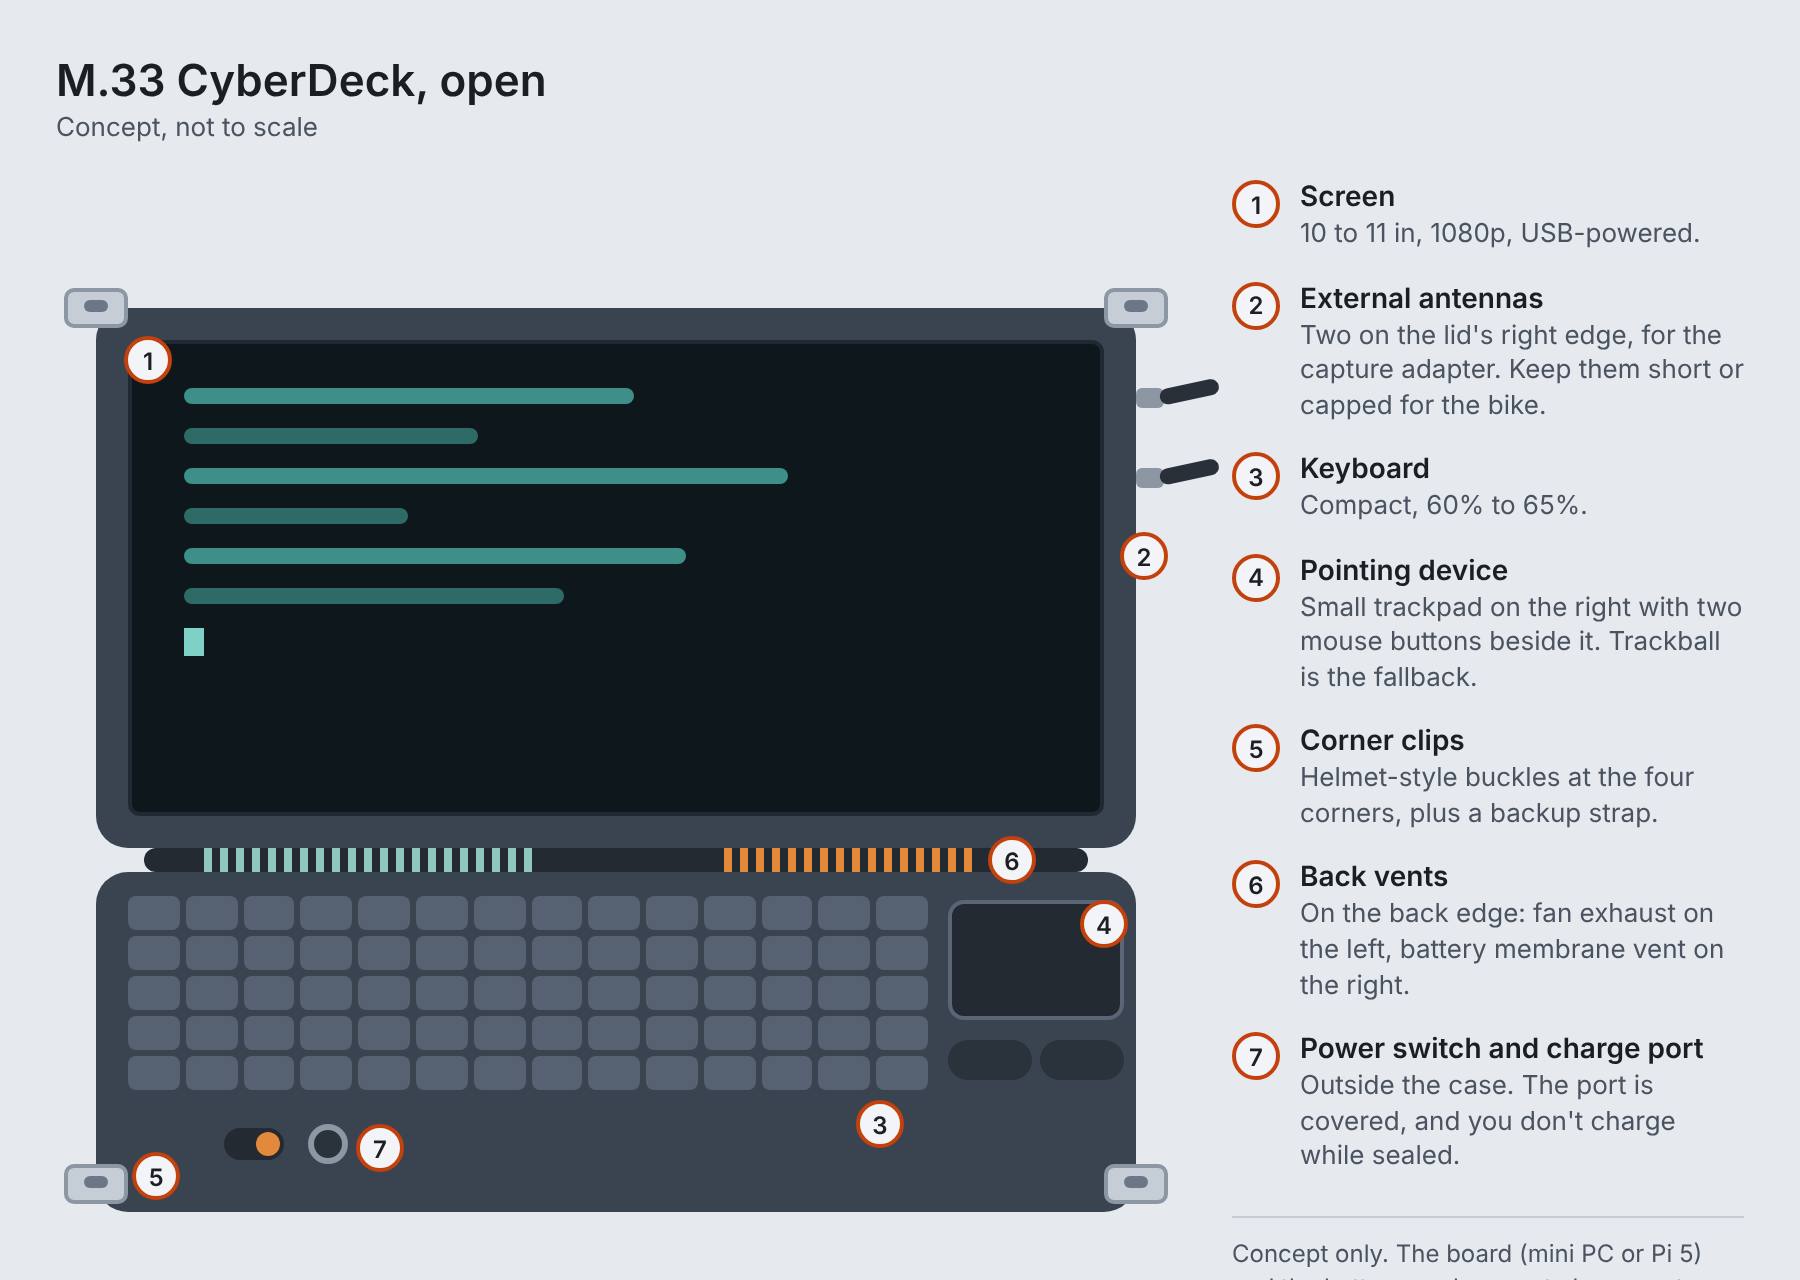
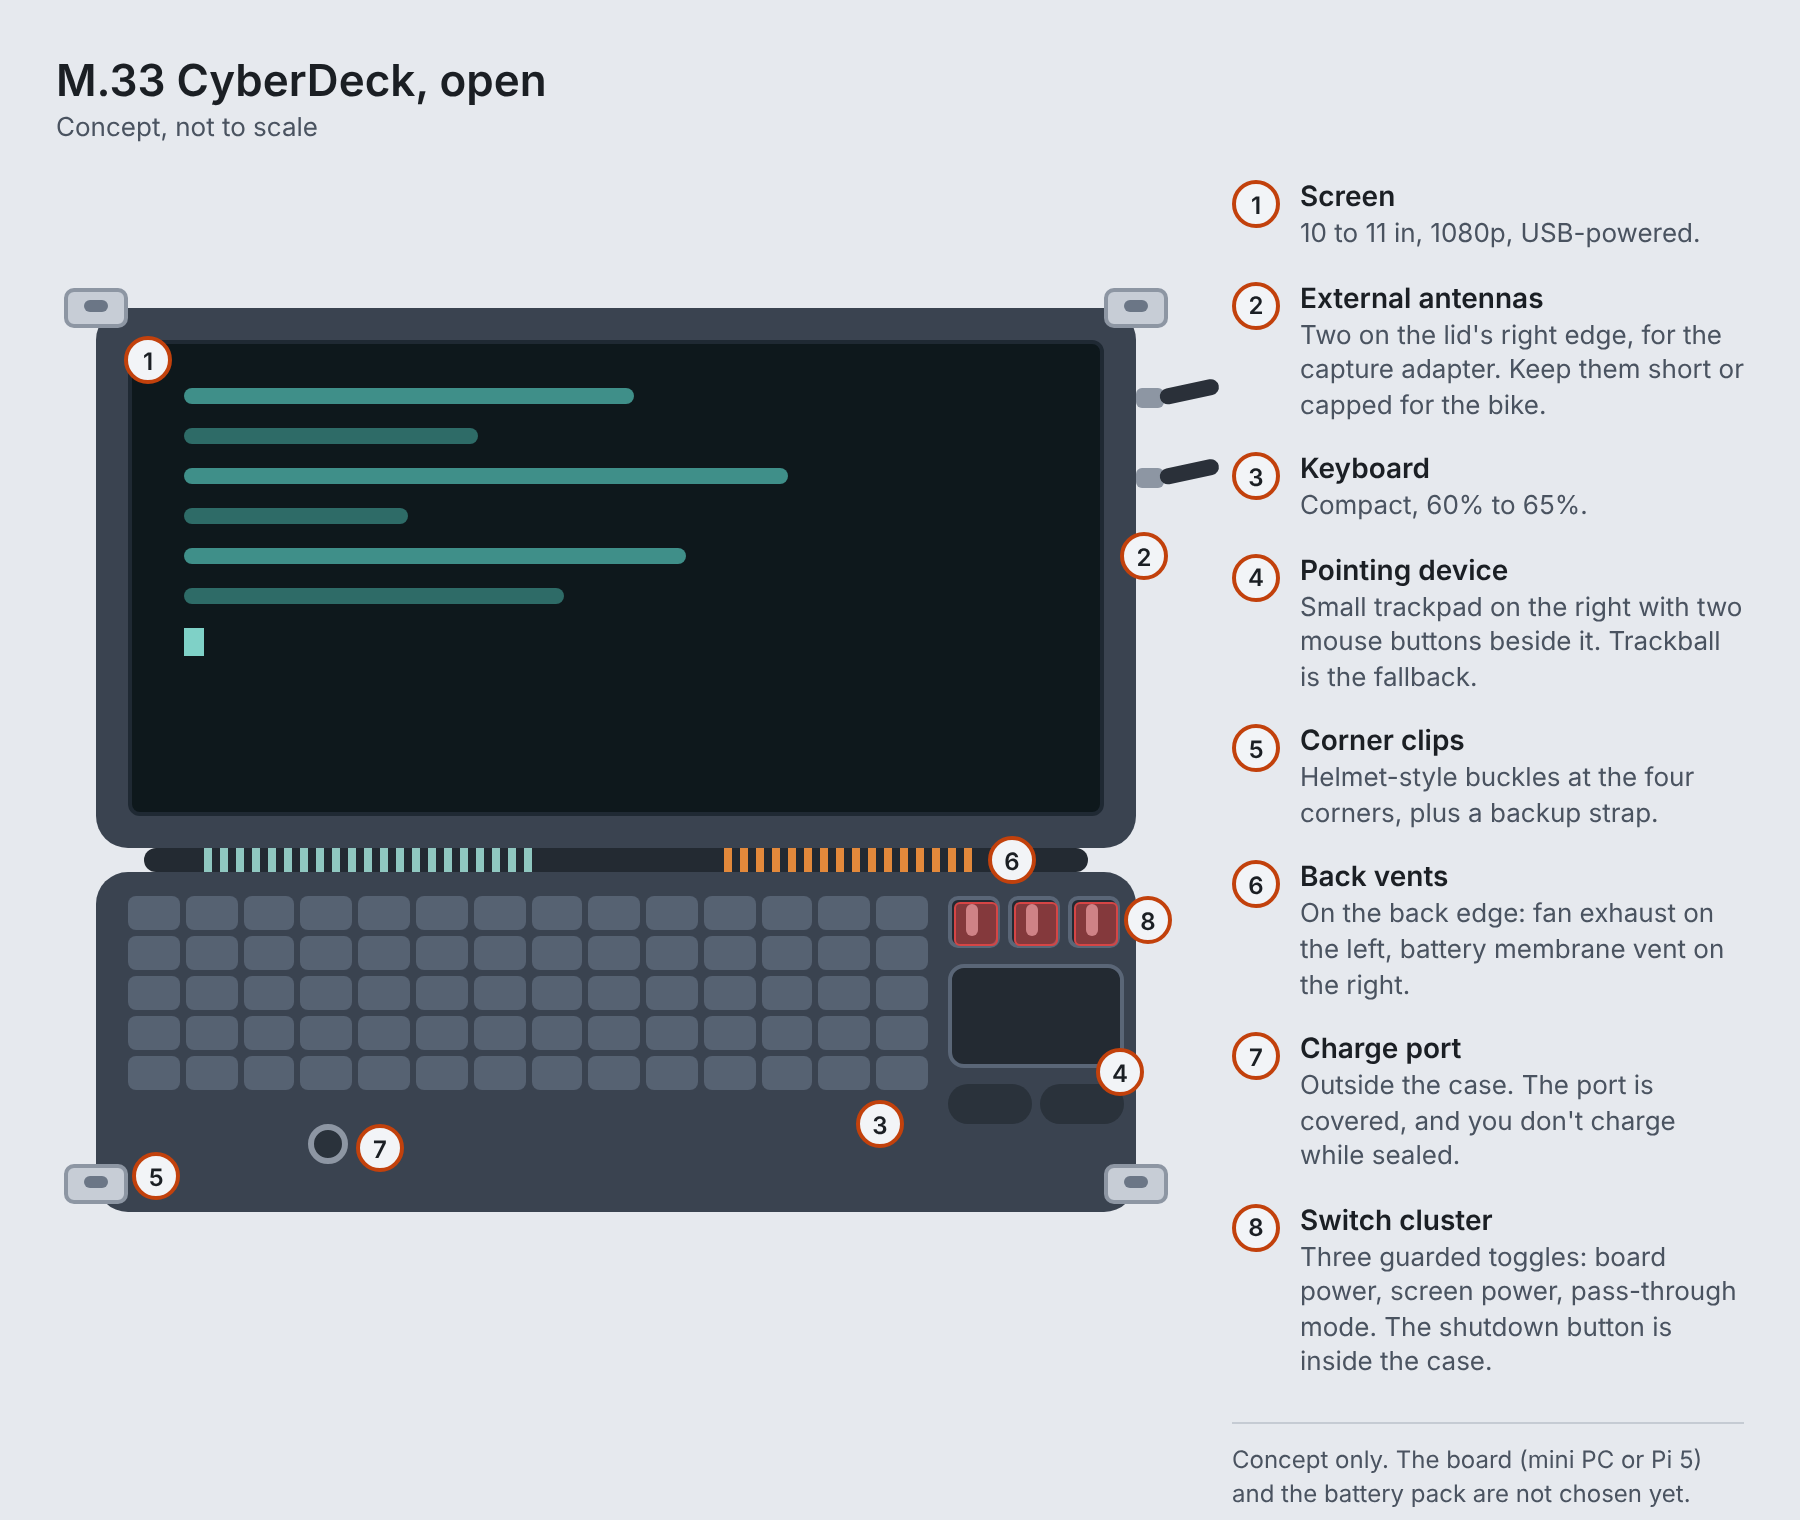
Draw switch cluster in open view; shutdown button is inside the case
Claude-Session: https://claude.ai/code/session_01WfqXADZtRr3PMXX3S9pY6E

diff --git a/MINI_PC_PLAN.md b/MINI_PC_PLAN.md
@@ -133,7 +133,7 @@ Idea under consideration: three guarded toggle switches (race-car style, with a 
 2. **Screen power:** cuts the screen's power line. A 10 in panel draws roughly 3 to 4 W, so it saves about 15 to 25% on headless jobs. These figures are estimates.
 3. **Pass-through mode:** the deck acts as the screen, keyboard and trackpad for another computer (a Pi or a laptop) while the internal board is off. Easiest build: a screen with a second input (HDMI plus USB-C) that switches automatically, a small USB switch (2 in, 1 out) for the keyboard and trackpad, and an HDMI-in and a USB host port on the case panel. Most USB switches use a momentary button, so a latching toggle needs a small relay or a switch with a hardware selector.
 
-Shutdown button: a separate momentary button for a clean shutdown (and to turn the board back on), either hidden and recessed or a big red arcade-style button. It wires to the board's power-button header, so a press sends the same signal as the board's own button. Set the OS to shut down cleanly on a power-button press. A long press (about 4 to 5 seconds) usually forces a hard power-off. Keep it recessed, under a cover or guarded, so it can't be pressed in a bag, and keep the main toggle off in transit so a stray press does nothing. Header pins on the board still need to be confirmed from teardown photos or the manual. The pins for it are the front-panel power-button pins on the motherboard, so confirm their location for the chosen model.
+Shutdown button: a separate momentary button for a clean shutdown (and to turn the board back on), either hidden and recessed or a big red arcade-style button. It wires to the board's power-button header, so a press sends the same signal as the board's own button. Set the OS to shut down cleanly on a power-button press. A long press (about 4 to 5 seconds) usually forces a hard power-off. It sits inside the case, so a bag can't press it, and it is reached with the case open. Header pins on the board still need to be confirmed from teardown photos or the manual. The pins for it are the front-panel power-button pins on the motherboard, so confirm their location for the chosen model.
 
 Power wiring: the screen and the USB switch must stay powered with the PC switch off. Feed them from the main battery before the PC switch, through an inline fuse and the screen switch. If the pack has a spare USB-C port, plug them into that. If the pack has only a 19 V DC output, add a small step-down converter to 5 V or a PD trigger module. Battery requirement: two outputs usable at once (high-power for the board, always-on USB-C for the screen). Check that the pack does not split its wattage between ports or turn off a port under a small load.
 

diff --git a/BUILD_PLAN.md b/BUILD_PLAN.md
@@ -94,7 +94,7 @@ Idea under consideration: three guarded toggle switches (race-car style, with a 
 2. **Screen power:** cuts the screen's power line. A 10 in panel draws roughly 3 to 4 W, which is large next to a Pi's 2 to 12 W, so it matters most here. These figures are estimates.
 3. **Pass-through mode:** the deck acts as the screen, keyboard and trackpad for another computer (a laptop or a second Pi) while the Pi is off. Easiest build: a screen with a second input (HDMI plus USB-C) that switches automatically, a small USB switch (2 in, 1 out) for the keyboard and trackpad, and an HDMI-in and a USB host port on the case panel. Most USB switches use a momentary button, so a latching toggle needs a small relay or a switch with a hardware selector.
 
-Shutdown button: a separate momentary button for a clean shutdown (and to turn the board back on), either hidden and recessed or a big red arcade-style button. It wires to the board's power-button header, so a press sends the same signal as the board's own button. Set the OS to shut down cleanly on a power-button press. A long press (about 4 to 5 seconds) usually forces a hard power-off. Keep it recessed, under a cover or guarded, so it can't be pressed in a bag, and keep the main toggle off in transit so a stray press does nothing. Header pins on the board still need to be confirmed from teardown photos or the manual. A Pi 5 has a power-button connector on the board. A Pi 4 has none, so it shuts down from the OS or over SSH.
+Shutdown button: a separate momentary button for a clean shutdown (and to turn the board back on), either hidden and recessed or a big red arcade-style button. It wires to the board's power-button header, so a press sends the same signal as the board's own button. Set the OS to shut down cleanly on a power-button press. A long press (about 4 to 5 seconds) usually forces a hard power-off. It sits inside the case, so a bag can't press it, and it is reached with the case open. Header pins on the board still need to be confirmed from teardown photos or the manual. A Pi 5 has a power-button connector on the board. A Pi 4 has none, so it shuts down from the OS or over SSH.
 
 Power wiring: the screen and the USB switch must stay powered with the Pi switch off. Feed them from the main battery before the Pi switch, through an inline fuse and the screen switch. A power bank with two USB-C ports can do this directly. Battery requirement: two outputs usable at once (5 V at 5 A for the Pi, plus an always-on USB-C for the screen), and check that the pack does not split its wattage between ports or turn off a port under a small load.
 

diff --git a/CASE_SPEC.md b/CASE_SPEC.md
@@ -54,7 +54,7 @@ Estimated 9 to 13 lb for a mini PC build in a large case, 6 to 8 lb for a Pi 5 w
 Idea under consideration, not decided. Three guarded toggles (flip-cover, race-car style) in a row above the trackpad: board power, screen power, and a pass-through mode where the deck is the screen and keyboard for another computer. Details are in `BUILD_PLAN.md` and `MINI_PC_PLAN.md`.
 
 - Space: a row of three is about 2.5 to 3 in wide and about 1.2 in deep. The right-hand zone is about 3.5 in wide, and the front row is about 4 in deep, so it is tight with a small trackpad on the Pelican 1470. If it does not fit, put it beside the buttons or at the left end by the ports.
-- Shutdown button: a separate momentary button (hidden and recessed, or a big red arcade style) near the cluster, for a clean shutdown. Recess or guard it so a bag cannot press it.
+- Shutdown button: a separate momentary button (hidden, or a big red arcade style) inside the case, for a clean shutdown. Being inside, a bag cannot press it.
 - Case panel: pass-through mode needs an HDMI-in port and a USB host port, with locking connectors like the others.
 - Battery: needs two outputs usable at once, one high-power for the board and one always-on for the screen and USB switch.
 
